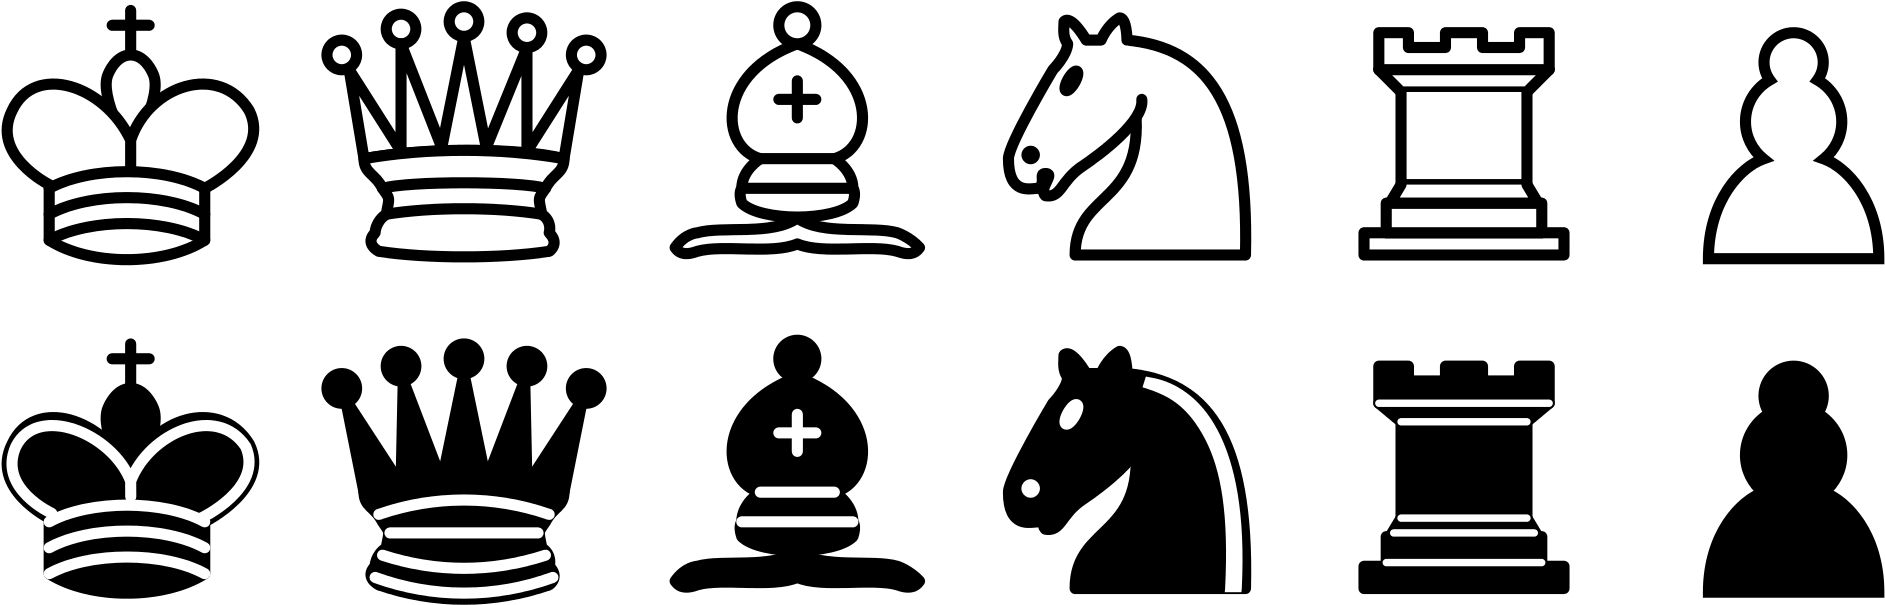
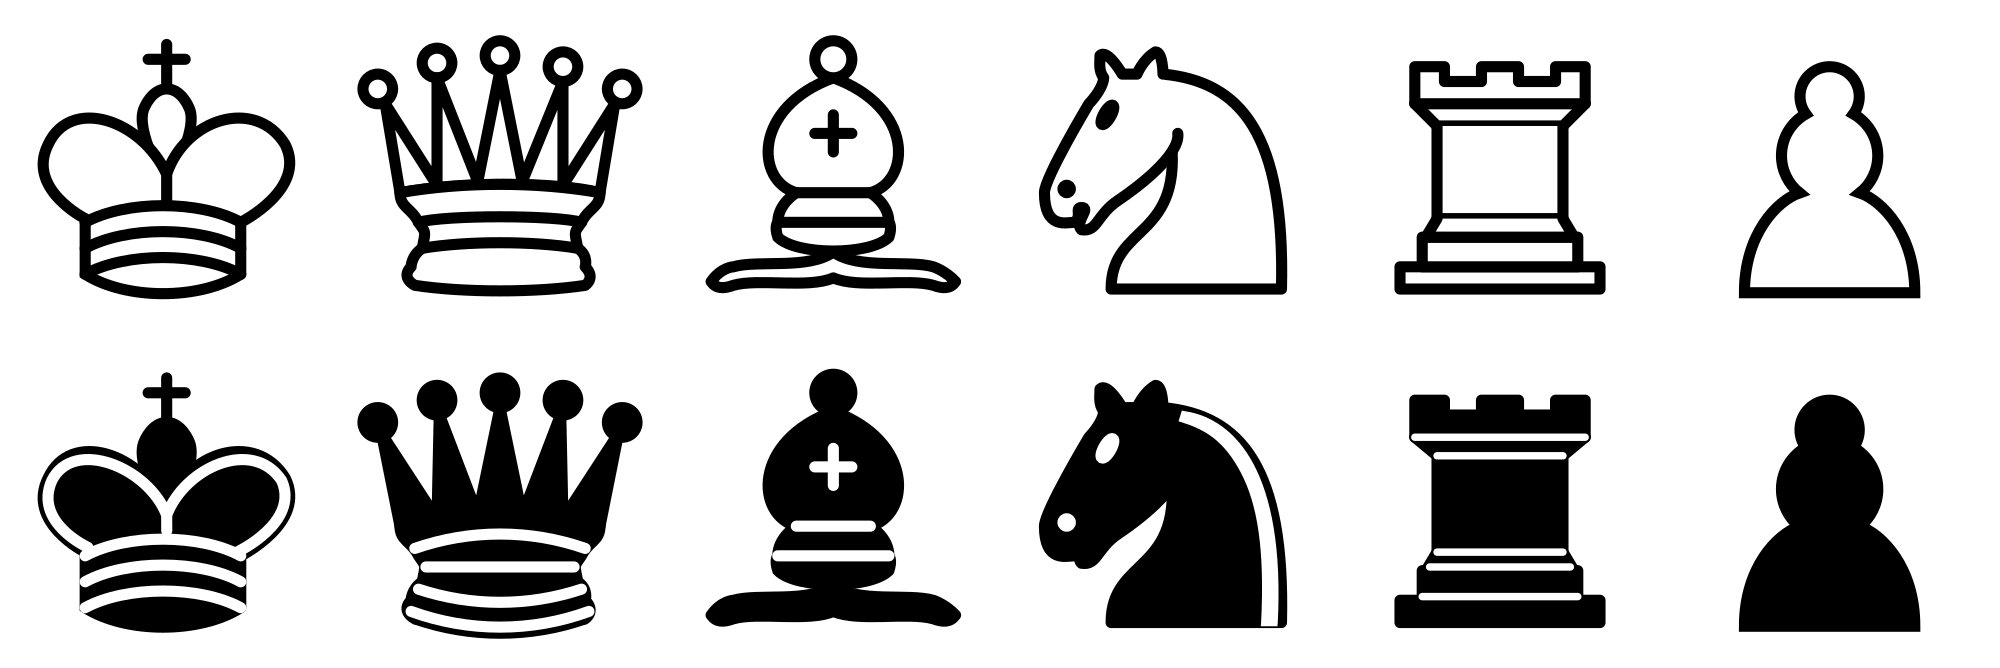
finished the renderer and found a better spritesheet for the pieces. rescaling the window works

diff --git a/src/render/Boardrender.cpp b/src/render/Boardrender.cpp
@@ -3,15 +3,15 @@
 #include <stdexcept>
 #include <string>
 
-const raylib::Color Whitesquare = {0x52311e};
-const raylib::Color Blacksquare = {0xc59562};
-const raylib::Color Highlightsquare = {0xfbf236};
-const raylib::Color Movesquare = {0x306082};
+const raylib::Color Whitesquare = {0x52311eff};
+const raylib::Color Blacksquare = {0xc59562ff};
+const raylib::Color Highlightsquare = {0xfbf236ff};
+const raylib::Color Movesquare = {0x306082ff};
 
-const raylib::Color White = {0xffffff};
+const raylib::Color White = {0xffffffff};
 
-
-raylib::Texture2D pieceTexture;
+static raylib::Texture2D pieceTexture;
+static raylib::Texture2D* pieceTexturePtr = nullptr;
 bool textureinitialized = false;
 
 int pieceWidth = -1;
@@ -20,13 +20,16 @@ int pieceHeight = -1;
 
 void InitPieceTexture(std::string path) {
   pieceTexture = raylib::Texture2D{path};
+  pieceTexture.GenMipmaps();
+  pieceTexture.SetFilter(TEXTURE_FILTER_TRILINEAR); 
+  pieceTexturePtr = &pieceTexture;
   pieceWidth = pieceTexture.width / 6;
   pieceHeight = pieceTexture.height / 2;
   textureinitialized = true;
 }
 
 void DrawPiece(int index, raylib::Rectangle boardRect, Piece piece) {
-  if (textureinitialized) {
+  if (!textureinitialized) {
     throw std::runtime_error("texture was not initialized");
   }
   PieceType type = piece.GetType();
@@ -39,12 +42,12 @@ void DrawPiece(int index, raylib::Rectangle boardRect, Piece piece) {
   float y = std::floor(index / 8) * boardRect.height / 8;
   
   raylib::Rectangle drawAera = {
-    x,
-    y,
+    x + boardRect.x,
+    y + boardRect.y,
     width,
     height,
   };
-
+  
   if (piece.IsFlagSet(PieceFlag::Highlight)) {
     DrawRectangleRec(drawAera, Highlightsquare);
   }
@@ -54,23 +57,31 @@ void DrawPiece(int index, raylib::Rectangle boardRect, Piece piece) {
   }
 
   if (type == PieceType::Empty) {return;}
-
   
   raylib::Rectangle fromRect = {
-    float(to_uint8(type) * pieceWidth),
-    float((to_uint8(piece.GetColor())-1) * pieceHeight),
+    float(int(to_uint8(type)) * pieceWidth),
+    float(int((to_uint8(piece.GetColor()))) * pieceHeight),
     float(pieceWidth),
     float(pieceHeight)
   };
 
   raylib::Vector2 origin = {0,0};
 
-  DrawTexturePro(pieceTexture, fromRect, drawAera, origin, 0, WHITE);
 
+  DrawTexturePro(*pieceTexturePtr, fromRect, drawAera, origin, 0, WHITE);
 }
 
 void DrawBoard(Board board, raylib::Rectangle boardRect) {
   for (int i = 0; i < 64; i++) {
+
+    int x = boardRect.x + (i % 8) * (boardRect.width / 8);
+    int y = boardRect.y + floor((float)i / 8) * (boardRect.height / 8);
+
+    int row = i / 8;
+    int col = i % 8;
+    raylib::Color sqrcol = ((row + col) % 2 == 0) ? Blacksquare : Whitesquare;
+    DrawRectangle(x, y, boardRect.width / 8, boardRect.height / 8, sqrcol);
+
     Piece piece = board.squares[i];
     DrawPiece(i, boardRect, piece);
   }

diff --git a/src/render/Renderer.cpp b/src/render/Renderer.cpp
@@ -3,16 +3,17 @@
 #include "Boardrender.hpp"
 #include "../Engine/BoardTypes.hpp"
 
+#include <iostream>
 #include <string>
 
 void InitRenderer(std::string texturepath) {
   InitPieceTexture(texturepath);
 }
 
-void DrawAll(raylib::Window window, Board board) {
+void DrawAll(raylib::Window* window, Board board) {
 
-  int w = window.GetRenderWidth(); 
-  int h = window.GetRenderHeight();
+  int w = window->GetRenderWidth(); 
+  int h = window->GetRenderHeight();
   int largest = fmax(w,h);
   int smallest = fmin(w,h);
 
@@ -21,7 +22,7 @@ void DrawAll(raylib::Window window, Board board) {
   
   if (smallest == h) {
     boardrect = raylib::Rectangle{
-      float(largest - smallest),
+      float(largest - smallest) / 2,
       0,
       float(smallest),
       float(smallest)
@@ -30,14 +31,12 @@ void DrawAll(raylib::Window window, Board board) {
   }else{
     boardrect = raylib::Rectangle{
       0,
-      float(largest - smallest),
+      float(largest - smallest) / 2,
       float(smallest),
       float(smallest)
     };
   
   }
-
-  DrawGrid(8, smallest);
 
   DrawBoard(board, boardrect);
 }

diff --git a/src/Engine/BoardTypes.hpp b/src/Engine/BoardTypes.hpp
@@ -10,7 +10,7 @@ enum class PieceType : uint8_t{
   Knight,
   Rook,
   Pawn,
-  Empty
+  Empty,
 };
 
 enum class PieceColor : uint8_t{
@@ -33,16 +33,16 @@ enum class MoveFlag {
   Special2 = 0b1 << 12,
 };
 
-inline uint8_t to_uint8(PieceType type) { return static_cast<uint8_t>(type); }
-inline uint8_t to_uint8(PieceColor color) { return static_cast<uint8_t>(color); }
-inline uint8_t to_uint8(PieceFlag flag) { return static_cast<uint8_t>(flag); }
+inline uint8_t to_uint8(PieceType type) { return static_cast<uint8_t>(type)&0b00000111; }
+inline uint8_t to_uint8(PieceColor color) { return static_cast<uint8_t>(color)&0b00001000; }
+inline uint8_t to_uint8(PieceFlag flag) { return static_cast<uint8_t>(flag)&0b11110000; }
 inline uint8_t to_uint16(MoveFlag flag) { return static_cast<uint16_t>(flag); }
 
 class Piece { 
   uint8_t data;
   
 public:
-  Piece() : data(0) {};
+  Piece() : data(6) {};
     Piece(uint8_t data) : data(data) {}
     Piece(PieceFlag flags, PieceColor color, PieceType type) : data(to_uint8(flags) | to_uint8(color) | to_uint8(type)) {}
 

diff --git a/src/main.cpp b/src/main.cpp
@@ -25,16 +25,14 @@ int main() {
 
   Board board;
   board.squares[0] = Piece(PieceFlag::None, PieceColor::White, PieceType::Queen);
-
+  
   while (!window.ShouldClose()) {
     // float deltatime = GetFrameTime();
     BeginDrawing();
     
     window.ClearBackground(BLACK);
     
-    DrawText("hello", 100, 100, 20, WHITE);
-    
-    DrawAll(window, board);
+    DrawAll(&window, board);
 
 
     EndDrawing();

diff --git a/src/render/Renderer.hpp b/src/render/Renderer.hpp
@@ -6,4 +6,4 @@
 #include <string>
 
 void InitRenderer(std::string texturepath);
-void DrawAll(raylib::Window window, Board board);
+void DrawAll(raylib::Window* window, Board board);

diff --git a/src/Engine/BoardTypes.cpp b/src/Engine/BoardTypes.cpp
@@ -19,5 +19,5 @@ void Piece::SetFlag(PieceFlag flag, bool value) {
 
 
 Board::Board() {
-  squares.fill(Piece(0));
+  squares.fill(Piece(to_uint8(PieceType::Empty)));
 }
